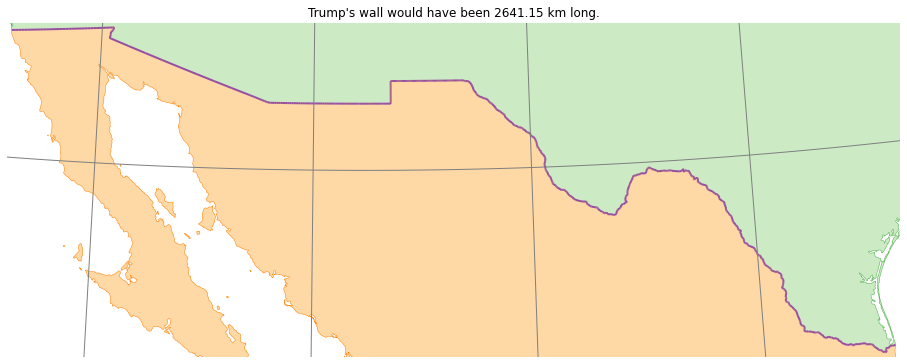
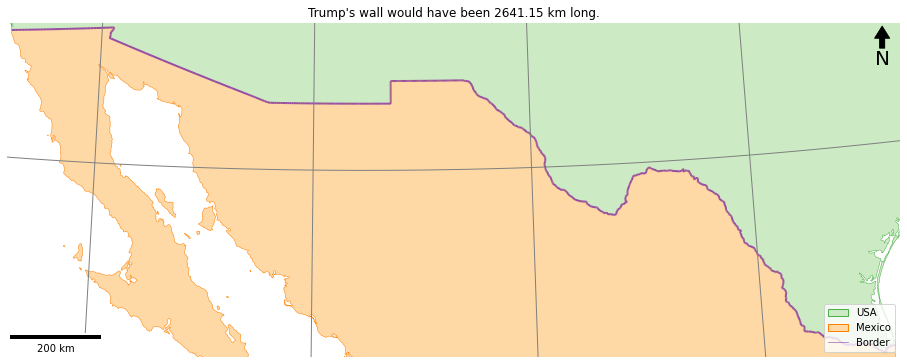
final map

Changed region(s): [[0.8953, 0.8159, 0.9879, 0.967], [0.0, 0.9066, 0.1235, 0.967], [0.957, 0.0604, 0.9879, 0.1813]]

diff --git a/week2/trumpswall.py b/week2/trumpswall.py
@@ -8,6 +8,9 @@ Created on Tue Oct  7 13:12:22 2025
 from geopandas import read_file, GeoSeries
 from matplotlib.pyplot import subplots, savefig, title
 from pyproj import Geod
+from matplotlib_scalebar.scalebar import ScaleBar
+from matplotlib.lines import Line2D
+from matplotlib.patches import Patch 
 
 # load the shapefile of countries - this gives a table of 12 columns and 246 rows (one per country)
 world = read_file("../../data/natural-earth/ne_10m_admin_0_countries.shp")
@@ -149,6 +152,22 @@ graticule.to_crs(lambert_conic).plot(
     color='grey',
     linewidth = 1,
     )
+
+# add north arrow
+x, y, arrow_length = 0.98, 0.99, 0.1
+my_ax.annotate('N', xy=(x, y), xytext=(x, y-arrow_length),
+	arrowprops=dict(facecolor='black', width=5, headwidth=15),
+	ha='center', va='center', fontsize=20, xycoords=my_ax.transAxes)
+
+# add scalebar
+my_ax.add_artist(ScaleBar(dx=1, units="m", location="lower left", length_fraction=0.25))
+
+# add legend
+my_ax.legend(handles=[
+        Patch(facecolor='#ccebc5', edgecolor='#4daf4a', label='USA'),
+        Patch(facecolor='#fed9a6', edgecolor='#ff7f00', label='Mexico'),
+        Line2D([0], [0], color='#984ea3',  lw=0.6, label='Border')
+    ],loc='lower right')
 
 # save the result
 savefig('out/2.png', bbox_inches='tight')
